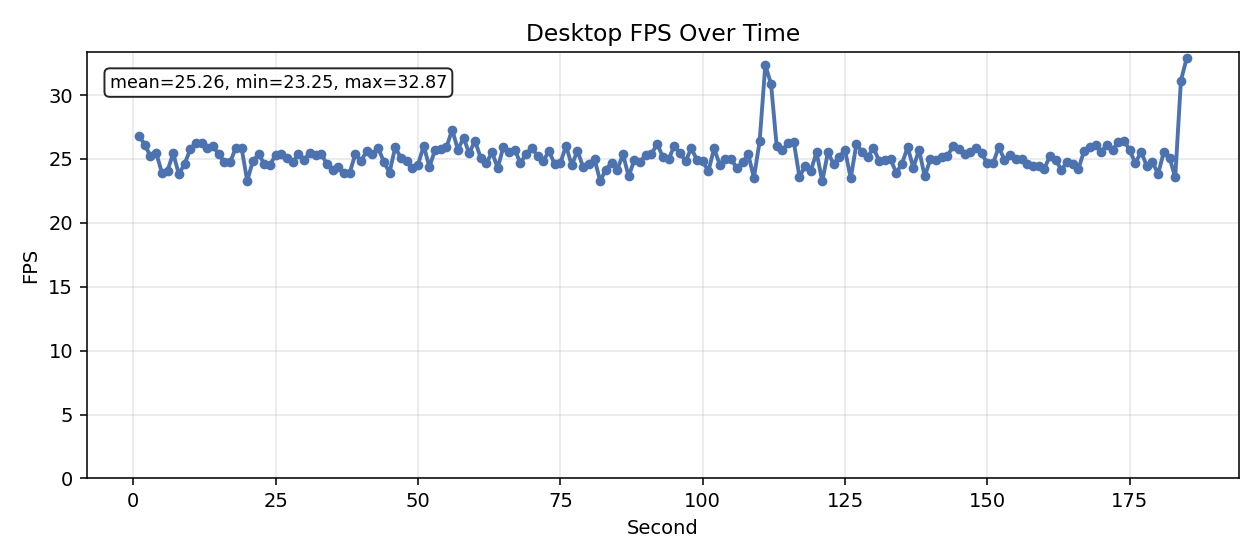
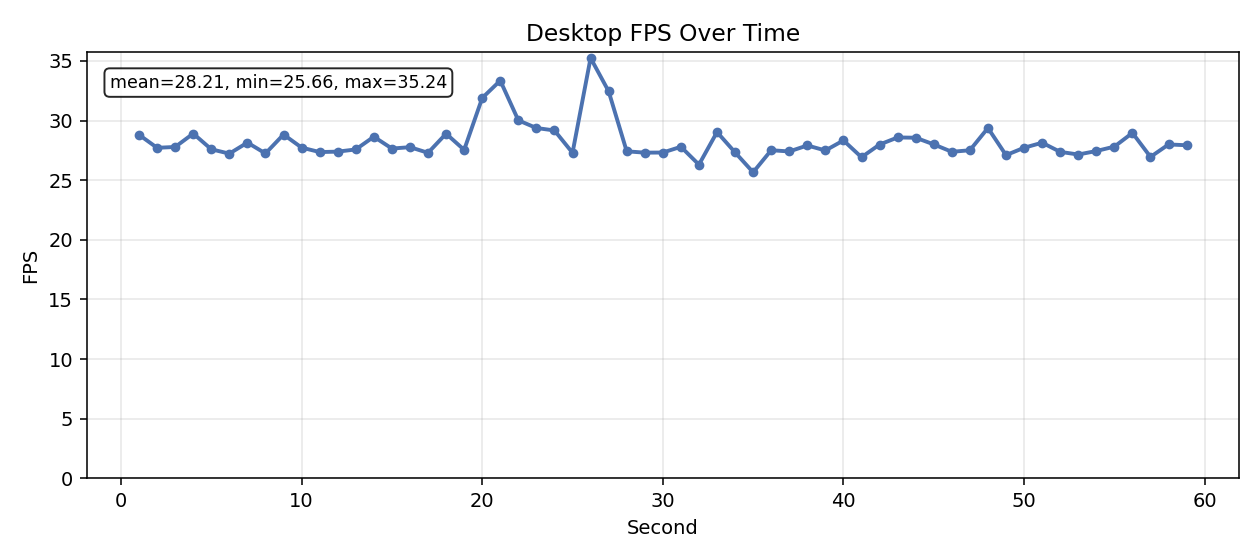
feat: update FPS

diff --git a/air_hockey.py b/air_hockey.py
@@ -43,6 +43,8 @@ C_PUCK_GL = (180, 140, 255)
 
 # Camera zoom
 CAM_ZOOM  = 1.6
+FPS_WARMUP_SECONDS = 5.0
+FPS_CAPTURE_SECONDS = 60.0
 
 
 # Pre-allocated bloom buffer to avoid re-allocating memory every frame
@@ -397,6 +399,8 @@ def main():
     fps_frames = 0
     fps_last_time = time.perf_counter()
     fps_samples = []
+    benchmark_start_time = time.perf_counter()
+    benchmark_saved = False
 
     print("AR Air Hockey (PvP) — point your index finger to control your paddle!")
 
@@ -417,9 +421,20 @@ def main():
         elapsed = now - fps_last_time
         if elapsed >= 1.0:
             fps = fps_frames / elapsed
-            fps_samples.append(fps)
+            benchmark_elapsed = now - benchmark_start_time
+            if FPS_WARMUP_SECONDS <= benchmark_elapsed < FPS_WARMUP_SECONDS + FPS_CAPTURE_SECONDS:
+                fps_samples.append(fps)
             fps_frames = 0
             fps_last_time = now
+
+        benchmark_elapsed = now - benchmark_start_time
+        if (not benchmark_saved) and benchmark_elapsed >= FPS_WARMUP_SECONDS + FPS_CAPTURE_SECONDS:
+            save_fps_figure(
+                fps_samples,
+                "model/fps_desktop.png",
+                f"Desktop FPS Over Time",
+            )
+            benchmark_saved = True
 
         # MediaPipe tetap jalan pada full frame untuk deteksi terbaik
         rgb     = cv2.cvtColor(frame, cv2.COLOR_BGR2RGB)
@@ -518,7 +533,12 @@ def main():
     hands.close()
     cam.stop()
     cap.release()
-    save_fps_figure(fps_samples, "model/fps_desktop.png", "Desktop FPS Over Time")
+    if not benchmark_saved:
+        save_fps_figure(
+            fps_samples,
+            "model/fps_desktop.png",
+            f"Desktop FPS Over Time",
+        )
     cv2.destroyAllWindows()
 
 

diff --git a/app.py b/app.py
@@ -40,6 +40,8 @@ C_P2      = (255, 80,  80)
 C_LINE    = (60,  255, 60)
 C_PUCK_GL = (180, 140, 255)
 CAM_ZOOM  = 1.6
+FPS_WARMUP_SECONDS = 5.0
+FPS_CAPTURE_SECONDS = 60.0
 
 _bloom_src = np.zeros((DH, DW, 3), dtype=np.uint8)
 
@@ -374,6 +376,8 @@ def game_loop():
     fps_frames = 0
     fps_last_time = time.perf_counter()
     fps_samples = []
+    benchmark_start_time = time.perf_counter()
+    benchmark_saved = False
 
     margin_x = (1.0 - 1.0 / CAM_ZOOM) / 2.0
     margin_y = (1.0 - 1.0 / CAM_ZOOM) / 2.0
@@ -396,9 +400,20 @@ def game_loop():
         elapsed = now - fps_last_time
         if elapsed >= 1.0:
             fps = fps_frames / elapsed
-            fps_samples.append(fps)
+            benchmark_elapsed = now - benchmark_start_time
+            if FPS_WARMUP_SECONDS <= benchmark_elapsed < FPS_WARMUP_SECONDS + FPS_CAPTURE_SECONDS:
+                fps_samples.append(fps)
             fps_frames = 0
             fps_last_time = now
+
+        benchmark_elapsed = now - benchmark_start_time
+        if (not benchmark_saved) and benchmark_elapsed >= FPS_WARMUP_SECONDS + FPS_CAPTURE_SECONDS:
+            save_fps_figure(
+                fps_samples,
+                "model/fps_webapp.png",
+                f"Web App FPS Over Time",
+            )
+            benchmark_saved = True
 
         rgb     = cv2.cvtColor(frame, cv2.COLOR_BGR2RGB)
         results = hands.process(rgb)
@@ -497,7 +512,12 @@ def game_loop():
     hands.close()
     cam.stop()
     cap.release()
-    save_fps_figure(fps_samples, "model/fps_webapp.png", "Web App FPS Over Time")
+    if not benchmark_saved:
+        save_fps_figure(
+            fps_samples,
+            "model/fps_webapp.png",
+            f"Web App FPS Over Time",
+        )
     with state.lock:
         state.latest_jpeg = None
         state.running     = False